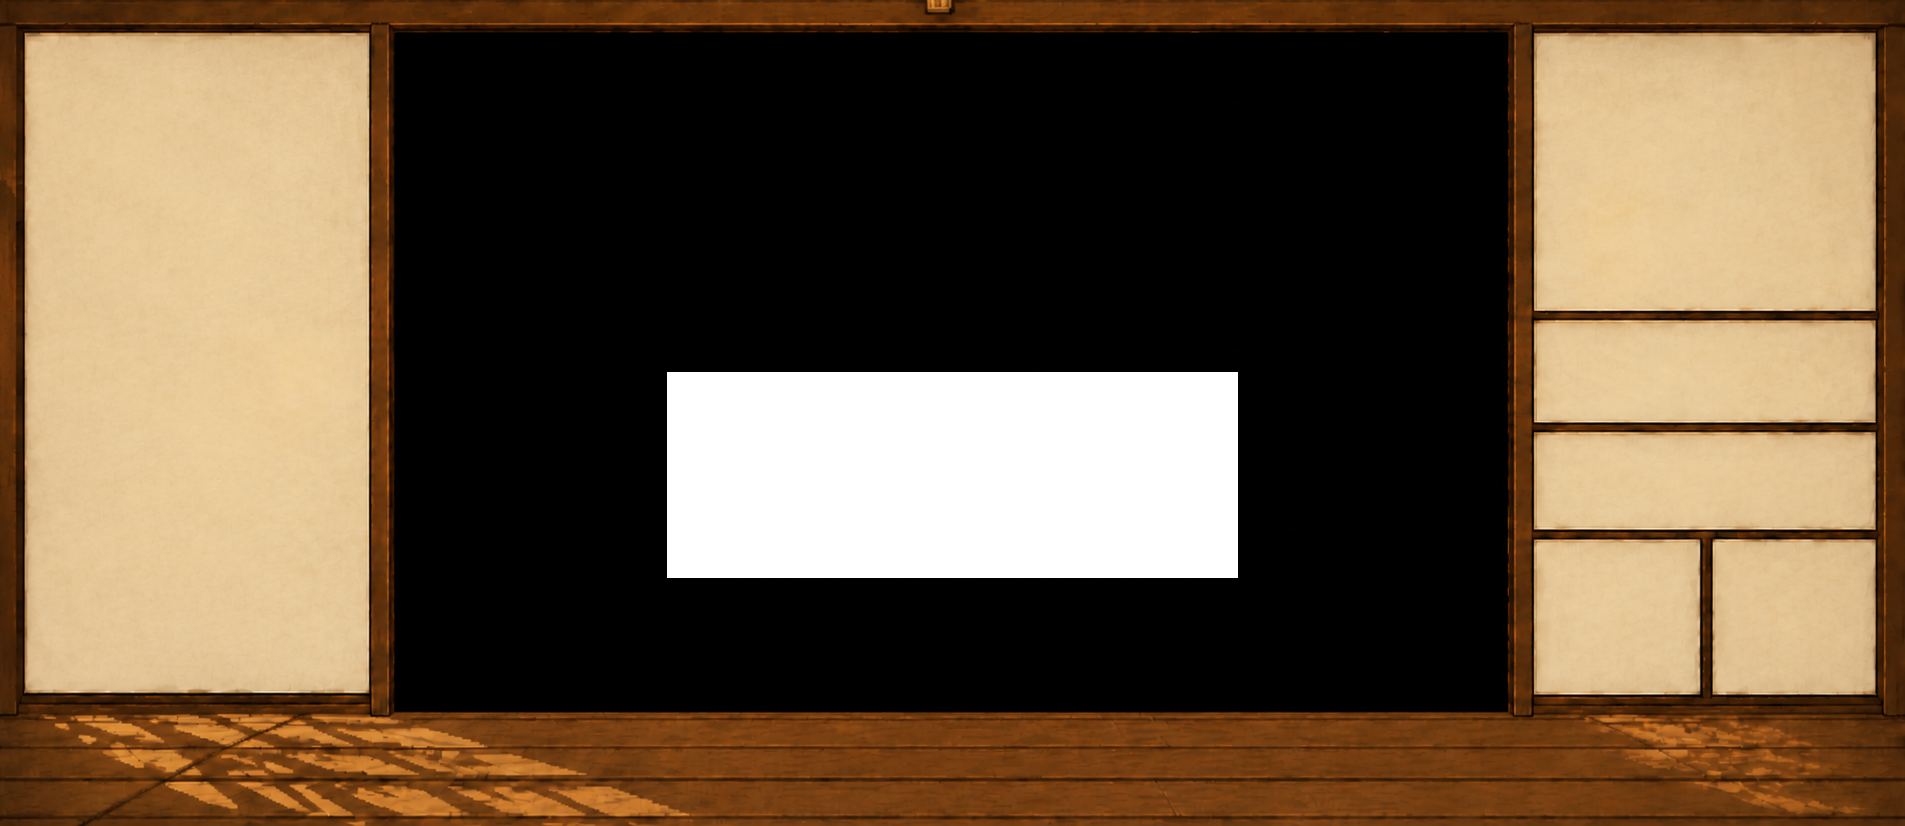
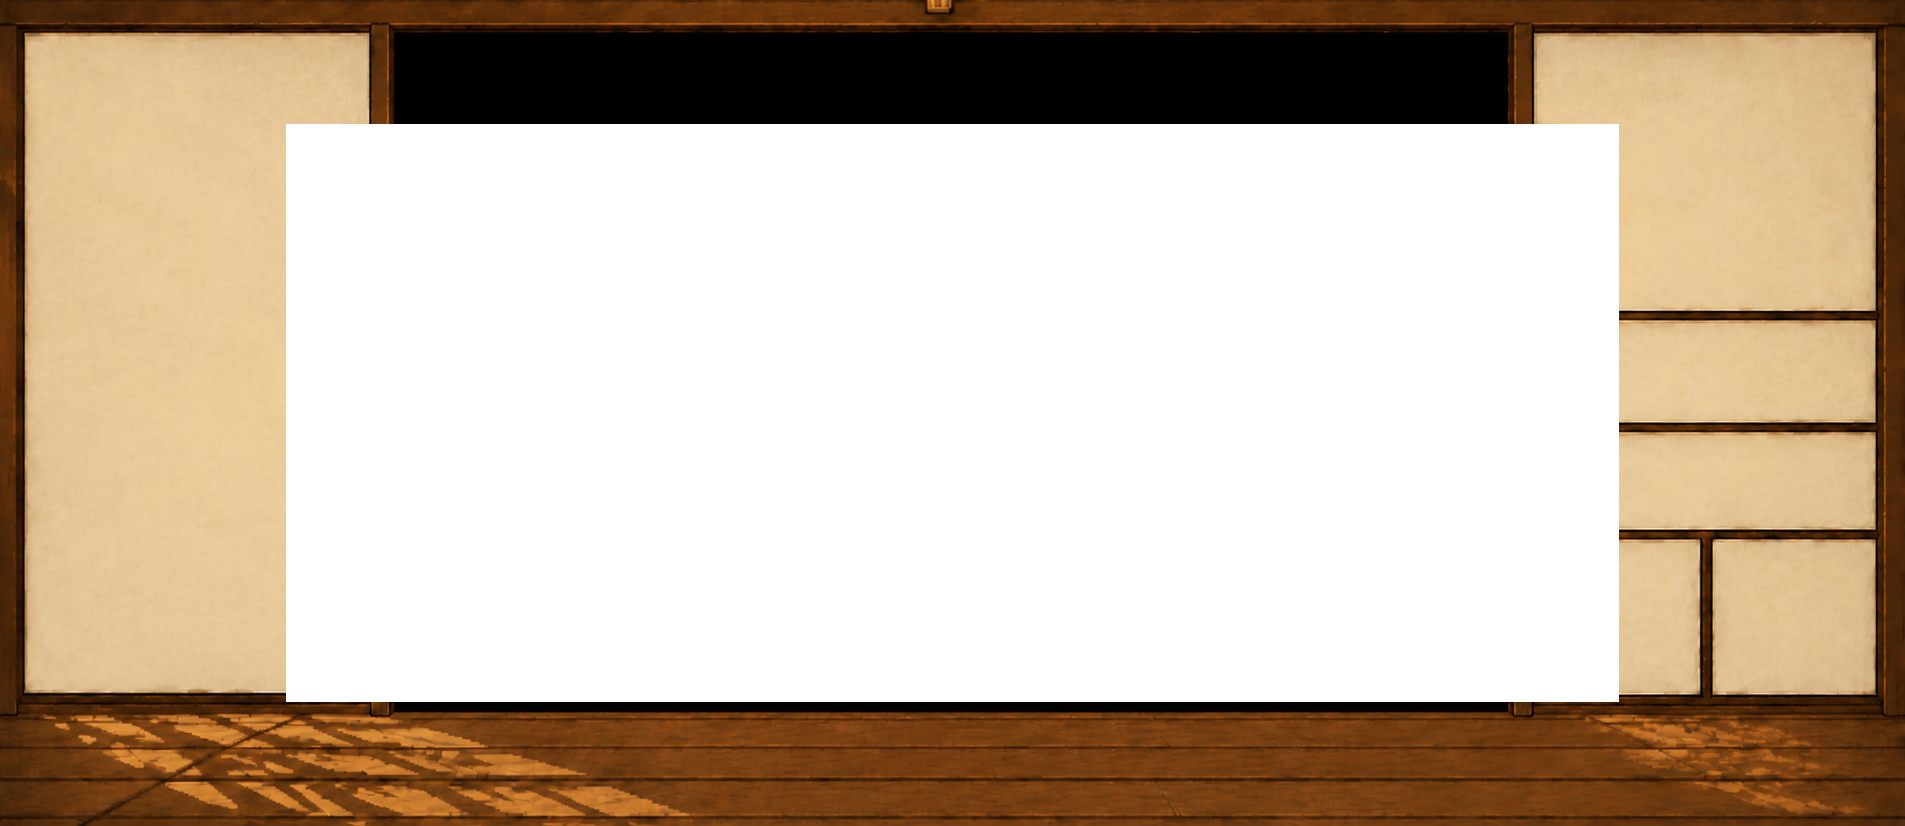
Lower aura window + box; aura fills moved window; bump v38

diff --git a/styles.css b/styles.css
@@ -44,7 +44,7 @@ button,input,textarea,select{font:inherit;color:inherit}button,input,textarea,se
 .sign-out:active{transform:translateY(1px)}
 
 /* ---------- room layers ---------- */
-.aura-layer{position:absolute;left:35%;top:50%;width:30%;height:23%;z-index:4;background-image:url("assets/nunnn.png");background-size:cover;background-position:center;background-repeat:no-repeat;opacity:var(--aura-strength);pointer-events:none}
+.aura-layer{position:absolute;left:15%;top:38%;width:70%;height:48%;z-index:4;background-image:url("assets/nunnn.png");background-size:cover;background-position:center;background-repeat:no-repeat;opacity:var(--aura-strength);pointer-events:none}
 .wall-embed{position:absolute;z-index:2;left:19%;top:8%;width:62%;height:52%;background-position:center;background-size:cover;pointer-events:none}
 .wall-tag{position:absolute;right:1.4%;top:3.5%;z-index:4;font:700 .6rem ui-monospace,Consolas,monospace;letter-spacing:.2em;color:var(--live);opacity:.9;text-transform:uppercase}
 

diff --git a/404.html b/404.html
@@ -5,7 +5,7 @@
   <meta name="viewport" content="width=device-width,initial-scale=1,viewport-fit=cover" />
   <meta name="theme-color" content="#c6924c" />
   <title>Big LWA</title>
-  <link rel="stylesheet" href="styles.css?v=37" />
+  <link rel="stylesheet" href="styles.css?v=38" />
 </head>
 <body>
   <main id="app" class="app-shell" aria-live="polite">

diff --git a/index.html b/index.html
@@ -5,7 +5,7 @@
   <meta name="viewport" content="width=device-width,initial-scale=1,viewport-fit=cover" />
   <meta name="theme-color" content="#c6924c" />
   <title>Big LWA</title>
-  <link rel="stylesheet" href="styles.css?v=37" />
+  <link rel="stylesheet" href="styles.css?v=38" />
 </head>
 <body>
   <main id="app" class="app-shell" aria-live="polite">
